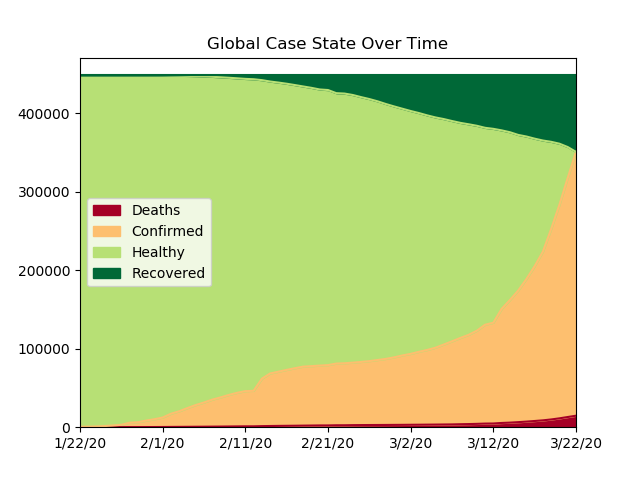
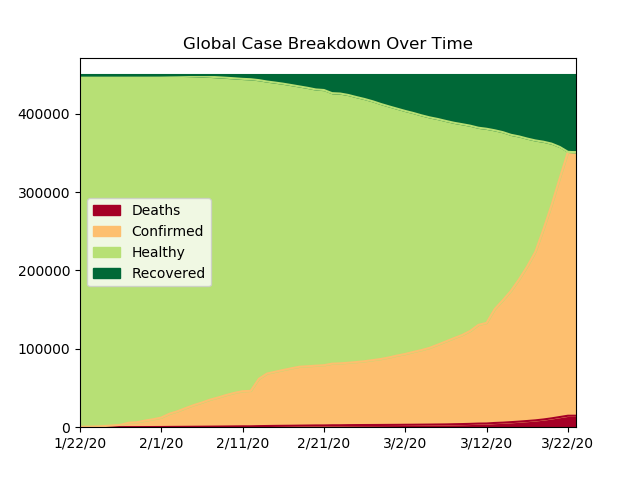
Update COVID-19 Graphic

diff --git a/scripts/update_covid_fig.py b/scripts/update_covid_fig.py
@@ -6,12 +6,12 @@ from matplotlib import pyplot as plt
 
 repo_path = "../"
 data_root = "./COVID-19/csse_covid_19_data/csse_covid_19_time_series/"
-output_path = "../assets/images/COVID-19.png"
+output_path = "../assets/images/"
 
 repo = Repo(repo_path)
 
 for submodule in repo.submodules:
-    submodule.update(init=True)
+    submodule.update(init=True, to_latest_revision=True)
 
 confirmed_df = pd.read_csv(os.path.join(data_root, "time_series_19-covid-Confirmed.csv"), index_col=['Country/Region', 'Province/State', 'Lat', 'Long'])
 deaths_df = pd.read_csv(os.path.join(data_root, "time_series_19-covid-Deaths.csv"), index_col=['Country/Region', 'Province/State', 'Lat', 'Long'])
@@ -27,9 +27,28 @@ total_df = pd.DataFrame({
     "Recovered": global_recovered
 })
 
-
 N = total_df.sum(axis=1)
 total_df['Healthy'] = N.max() - N
 
-total_df[['Deaths', 'Confirmed', 'Healthy', 'Recovered']].plot.area(title="Global Case State Over Time", colormap="RdYlGn")
-plt.savefig(output_path)
+x = np.arange(1, len(total_df) + 1)
+y = global_confirmed.values
+x_log = np.log(x)
+y_log = np.log(y)
+
+m, b = np.polyfit(x_log, y_log, 1)
+
+y_fit_log = m * x_log + b
+y_fit = np.exp(y_fit_log)
+
+plt.plot(x, total_df["Confirmed"], 'o')
+plt.plot(x, y_fit)
+plt.title("Global Active Cases")
+plt.xlabel("Time")
+plt.ylabel("# Confirmed Cases")
+plt.legend(["Raw Data", "Best Fit Line"])
+plt.xscale("log")
+plt.yscale("log")
+plt.savefig(os.path.join(output_path, "COVID-19_confirmed.png"))
+
+total_df[['Deaths', 'Confirmed', 'Healthy', 'Recovered']].plot.area(title="Global Case Breakdown Over Time", colormap="RdYlGn")
+plt.savefig(os.path.join(output_path, "COVID-19.png"))

diff --git a/resume.md b/resume.md
@@ -10,12 +10,6 @@ permalink: /resume/
 
 Committed software engineer with a detailed approach to data analysis.
 
-## Contact
-
-Phone: 281-658-1842 <br/>
-Email: valkc@rpi.edu <br/>
-School Address: 133 Sunset Terrace, Troy Ny 12180
-
 ## Professional Experience
 
 ### **Microsoft** (Redmond, Wa) - Software Engineering Intern, *05/28/2019 - 08/17/2019*

diff --git a/index.md b/index.md
@@ -10,4 +10,5 @@ This is my personal page filled with my thoughts and personal projects.
 
 # COVID-19 Status:
 
-![COVID-19 Status](/assets/images/COVID-19.png)
+![COVID-19 Global Confirmed Cases](/assets/images/COVID-19_confirmed.png)
+![COVID-19 Case Breakdown](/assets/images/COVID-19.png)
